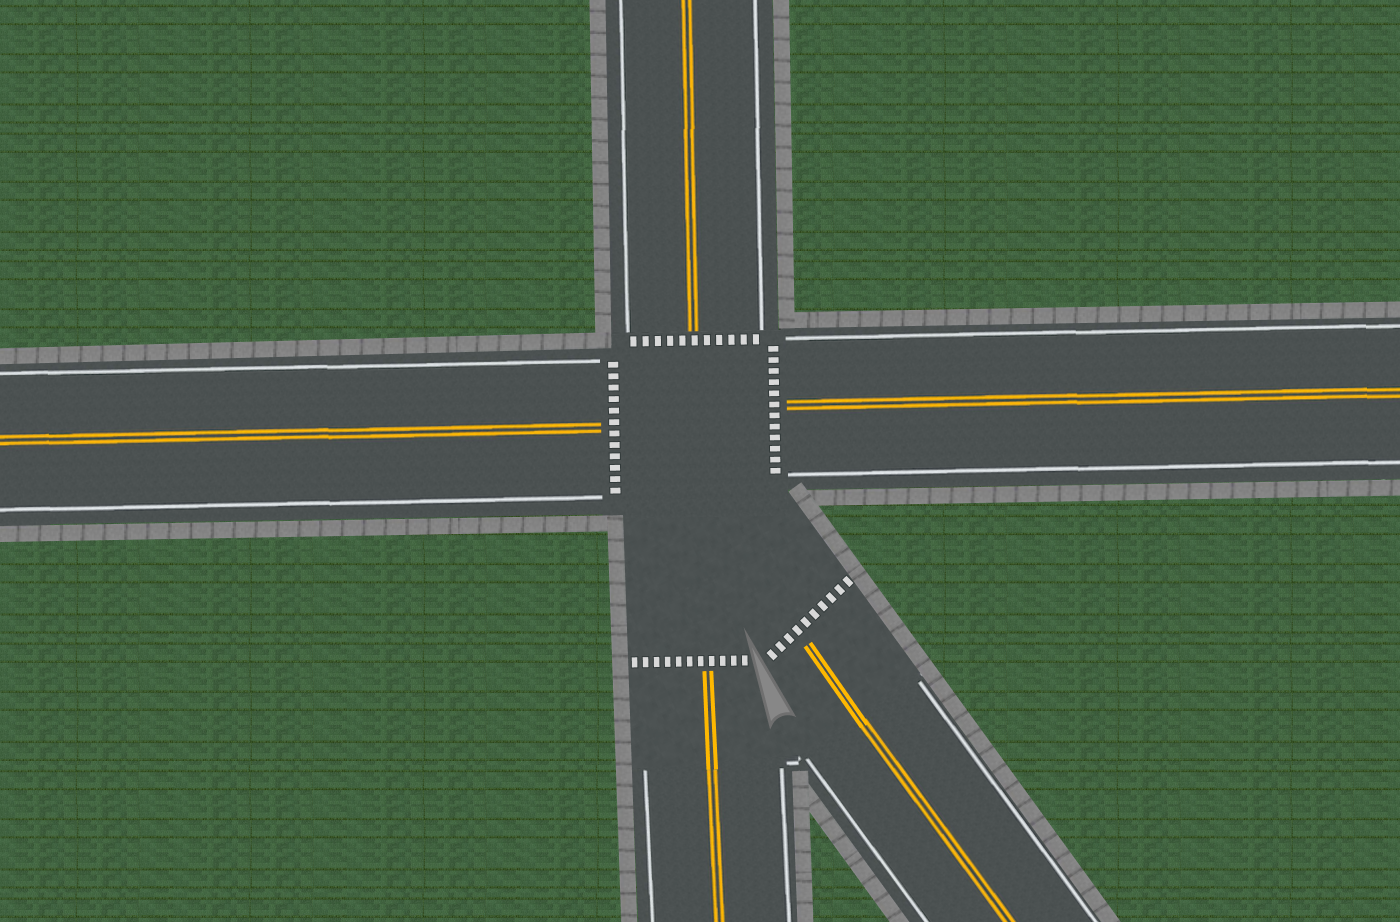
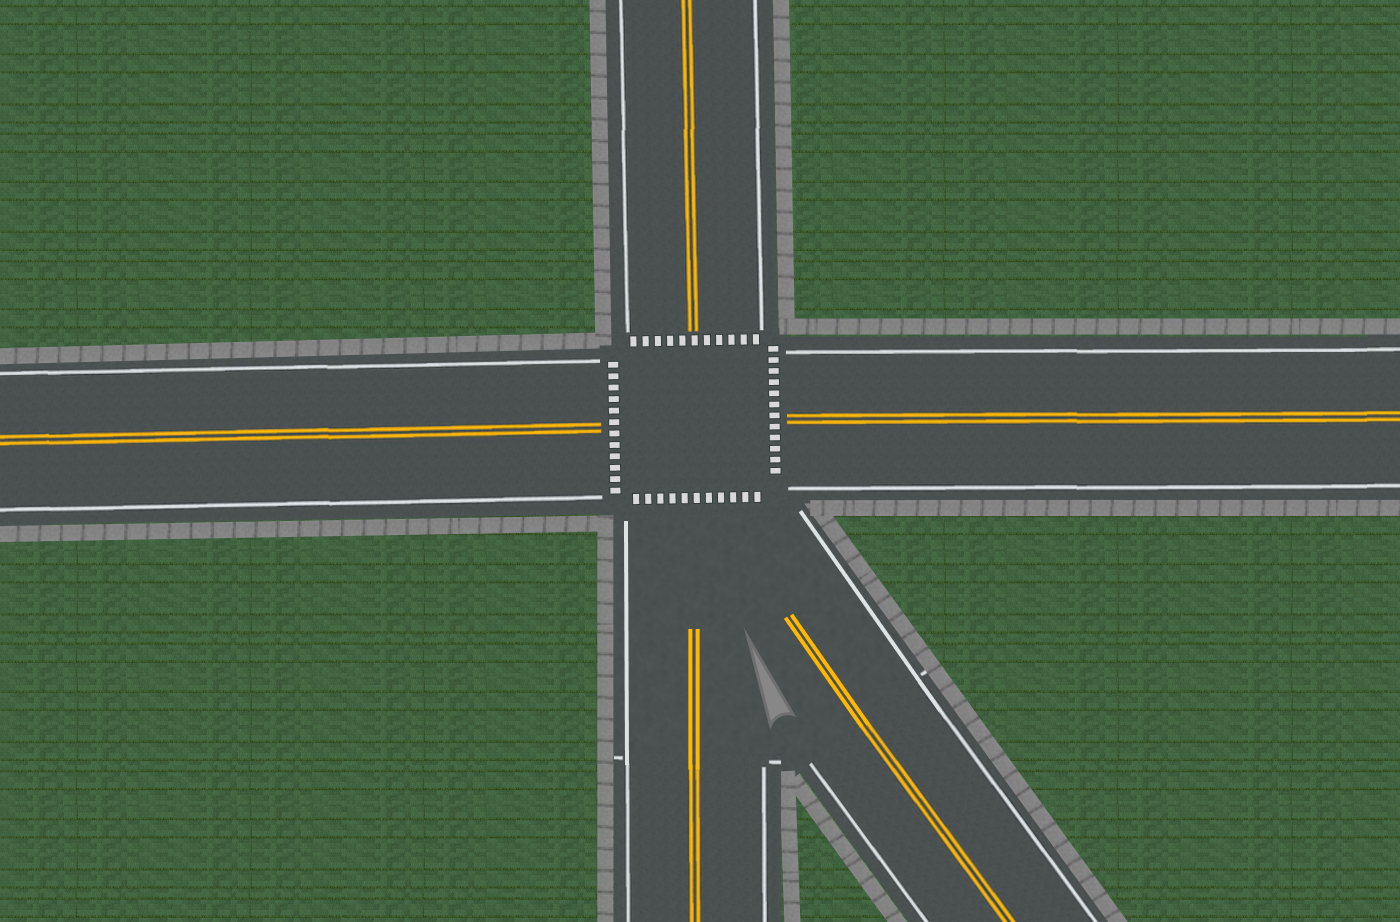
Update vehicle coordinates and signal positions

diff --git a/simulation.py b/simulation.py
@@ -43,34 +43,21 @@ speeds = {
 
 # Coordenadas del comienzo de los vehículoss vehículos
 
-# custom
-# x = {
-#  'right': [0, 69, 56],
-#  'down': [759, 790, 816],
-#  'left': [1400, 1367, 1352],
-#  'up': [602, 506, 537]
-# }
-
-# y = {
-#  'right': [0, 0, 25],
-#  'down': [0, 0, 11],
-#  'left': [498, 553, 581],
-#  'up': [855, 855, 866]
-# }
-
 # original
 x = {
  'right': [0, 0, 0],
  'down': [755, 727, 697],
  'left': [1400, 1400, 1400],
- 'up': [602, 627, 657]
+ 'up': [602, 627, 657],
+ 'vertical': [800, 800, 800]
 }
 
 y = {
  'right': [348, 370, 398],
  'down': [0, 0, 0],
  'left': [498, 466, 436],
- 'up': [800, 800, 800]
+ 'up': [800, 800, 800],
+ 'vertical': [800, 800, 800]
 }
 
 # Vehículos característicoscos
@@ -78,7 +65,8 @@ vehicles = {
     'right': {0: [], 1: [], 2: [], 'crossed': 0},
     'down': {0: [], 1: [], 2: [], 'crossed': 0},
     'left': {0: [], 1: [], 2: [], 'crossed': 0},
-    'up': {0: [], 1: [], 2: [], 'crossed': 0}
+    'up': {0: [], 1: [], 2: [], 'crossed': 0},
+    'vertical': {0: [], 1: [], 2: [], 'crossed': 0}
 }
 
 vehicleTypes = {0: 'car', 1: 'bus', 2: 'truck', 3: 'bike'}
@@ -89,13 +77,13 @@ directionNumbers = {0: 'right', 1: 'down', 2: 'left', 3: 'up'}
 # Coordenadas de imagen de señal, temporizador y recuento de vehículos
 # signalCoods = [(608, 99), (886, 204), (479, 380), (824, 536)]
 # signalTimerCoods = [(608, 79), (886, 184), (479, 360), (824, 516)]
-signalCoods = [(530, 230), (810, 230), (810, 570), (530, 570)]
-signalTimerCoods = [(530, 210), (810, 210), (810, 550), (530, 550)]
+signalCoods = [(530, 230), (810, 230), (1000, 570), (530, 570)]
+signalTimerCoods = [(530, 210), (810, 210), (1000, 550), (530, 550)]
 signal_rotation = [0, 0, -0, 0] # rotación de la señal
 
 # Coordenadas de líneas de parada
-stopLines = {'right': 590, 'down': 330, 'left': 800, 'up': 535}
-defaultStop = {'right': 580, 'down': 320, 'left': 810, 'up': 545}
+stopLines = {'right': 590, 'down': 330, 'left': 800, 'up': 535,'vertical':535}
+defaultStop = {'right': 580, 'down': 320, 'left': 810, 'up': 545,'vertical':545}
 
 # Brecha entre vehículos
 stoppingGap = 25    # brecha de parada
@@ -111,13 +99,15 @@ vehiclesTurned = {
     'right': {1: [], 2: []},
     'down': {1: [], 2: []},
     'left': {1: [], 2: []},
-    'up': {1: [], 2: []}
+    'up': {1: [], 2: []},
+    'vertical': {1: [], 2: []}
 }
 vehiclesNotTurned = {
     'right': {1: [], 2: []},
     'down': {1: [], 2: []},
     'left': {1: [], 2: []},
-    'up': {1: [], 2: []}
+    'up': {1: [], 2: []},
+    'vertical': {1: [], 2: []}
 }
 rotationAngle = 3
 
@@ -128,7 +118,8 @@ mid = {
     'right': {'x': 705, 'y': 445},
     'down': {'x': 695, 'y': 450},
     'left': {'x': 695, 'y': 425},
-    'up': {'x': 695, 'y': 400}
+    'up': {'x': 695, 'y': 400},
+    'vertical': {'x': 695, 'y': 425}
 }
 
 # señal verde aleatorio
@@ -148,7 +139,7 @@ timeElapsedCoods = (1100, 50)
 vehicleCountTexts = ["0", "0", "0", "0"]
 
 # `vehicleCountCoods` son las coordenadas en la pantalla donde se mostrará el recuento de vehículos para cada dirección.
-vehicleCountCoods = [(480, 210), (880, 210), (880, 550), (480, 550)]
+vehicleCountCoods = [(480, 210), (880, 210), (1100, 550), (480, 550)]
 # vehicleCountCoods = [(558, 79), (956, 184), (439, 360), (810, 516)]
 
 # peak hour
